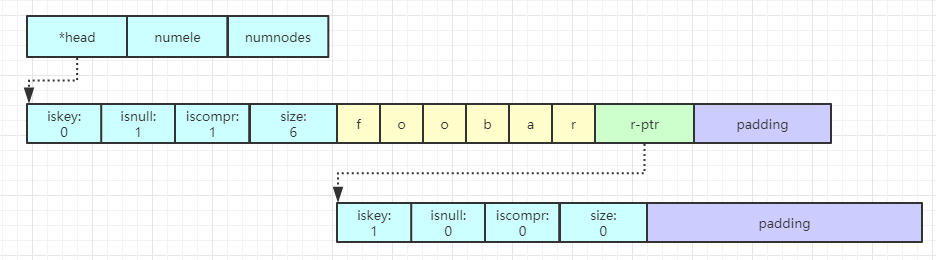
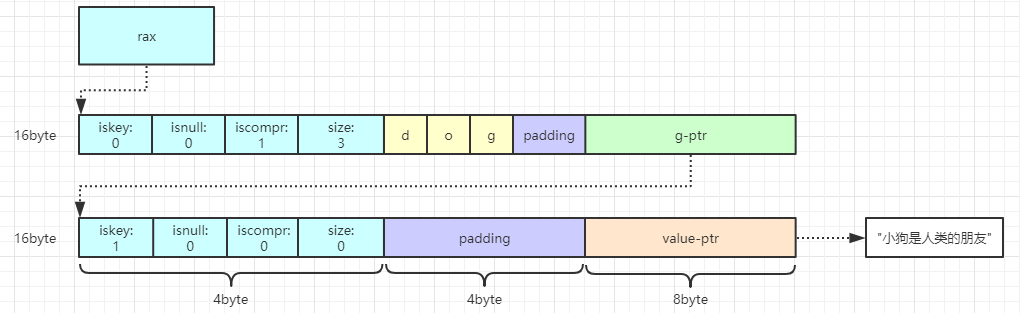
update

diff --git a/first_stage/Redis源码-基数树rax.md b/first_stage/Redis源码-基数树rax.md
@@ -7,7 +7,7 @@
 
 Redis 5.0版本引入的一个新的数据结构。  
 
-<font size=4>Rax核心数据结构：</font>  
+<font size=4>一、Rax数据结构：</font>  
 ![rax_node](../img/rax_node.png)
 字段说明：
 
@@ -19,7 +19,7 @@ Redis 5.0版本引入的一个新的数据结构。
 4. size：占用29个bit。
     * 非压缩：子节点的数量
     * 压缩：该节点字符个数
-5. data：柔性数组。包含路由键，子节点指针，value指针。
+5. data：柔性数组。包含路由键，子节点指针，value指针。为了提高cpu性能，data内存空间对齐(sizeof(void*))，所以会根据计算结果来进行相应的字节填充。
     * 非压缩节点的data伪代码：
 
        ``` C
@@ -29,9 +29,6 @@ Redis 5.0版本引入的一个新的数据结构。
             void* value; // 取决于 header 的 isNull 字段
        }
        ```
-
-        图示如下：
-       ![data_compre](../img/rax_uncompr.png)
 
     * 压缩节点的data伪代码：
 
@@ -45,21 +42,47 @@ Redis 5.0版本引入的一个新的数据结构。
        }
        ```
 
-        图示如下：
+        非压缩与压缩节点图示如下：
        ![data_compre](../img/rax_compr.png)
 
 </br>
 
-<font size=4>Rax创建：</font>  
+<font size=4>二、Rax创建：</font>  
 ![rax_new](../img/rax_new.png)  
 
 </br>
 
-<font size=4>Rax插入：</font>  
+<font size=4>三、Rax插入：</font>  
+ps：以下内容中的padding皆是为了内存对齐填充的空间。  
 
-<font size=3>1.在新创建的节点上插入<dog, "小狗是人类的朋友"></font>  
+<font size=3>1. 在空的基数树中插入数据：<dog, "狗是人类的朋友"></font>  
+解析：  
+首先从头结点开始查找，因为这是一个空的基数树，所以直接将"dog"插入到节点中，设置该节点为压缩节点（iscompr=1）,padding部分是为了内存对齐而填充的，创建该节点的叶子结点，叶子结点中，iskey=1是表示从头结点到该节点的父节点是一个完整的key，iskey=1 && isnull=0表示该叶子结点存储了key的value。  
+结果如下图：  
 ![rax_insert_1](../img/rax_insert_1.png)
 
+<font size=3>2. 接着插入数据：<cat, "猫咪很可爱"></font>  
+解析：  
+接着上面的基数树，从头结点开始查找，当前头结点存储的第一个字符是'd'，与要插入的key的第一个字符'c'不相等，所以需要将该节点拆分成两个节点（拆分的过程可看我下面的源码注释），分别存储[d]和[og]，此时基数树有3个节点。随后将字符'c'插入到首节点中，接着创建'c'子节点，将[at]插入到子节点中，并创建子节点的叶节点插入value的指针，此时基数树存在5个节点，元素个数为2。  
+结果如下图：  
+![rax_insert_2](../img/rax_insert_2.png)
+
+<font size=3>3. 接着插入数据：<doggy, "小狗很可爱"></font>  
+解析：  
+接着上面的基数树，从头结点开始查找key['doggy']，发现头结点只有一个'd'，接着在'd'的子节点node_1中比较['oggy']，找到['og']，'og'的子节点为叶子结点，这时只要直接把['gy']插入到叶子结点中，并创建一个'gy'的叶子结点插入value指针，即可完成插入。此时该基数树的节点数为6，元素个数为3。  
+结果如下图：  
+![rax_insert_3](../img/rax_insert_3.png)
+
+<font size=3>4. 接着插入数据：<carry, "携带"></font>  
+解析：  
+步骤如上一步，当匹配到节点['at']时，需要拆分该节点为['a']节点和['rt']节点， ['a']为['rt']的父节点，['rt']节点为非压缩节点，'r'指针指向新的节点['ry']，并创建['ry']的叶子结点，'t'指针指向原先的叶子结点，基数树右边部分保持不变，完成插入操作。此时该基数树的节点数为9，元素个数为4。  
+结果如下图：  
+![rax_insert_4](../img/rax_insert_4.png)
+
+</br>
+
+<font size=4>四、Rax删除：</font>  
+首先找到iskey节点，然后向上遍历父节点删除非iskey的节点。如果是非压缩的父节点并且size>1，表明该父节点还有其他相关的路径存在，则需要按照删除子节点的模式去处理这个父节点。  
 </br>
 </br>
 
@@ -85,11 +108,11 @@ typedef struct rax {
 
 #define RAX_STACK_STATIC_ITEMS 32
 typedef struct raxStack {
-    void **stack;
+    void **stack; // 存储每一层节点的地址
     size_t items, maxitems;
     void *static_items[RAX_STACK_STATIC_ITEMS];
     int oom;
-} raxStack;
+} raxStack; // 用于迭代，查找，删除的时候记录节点信息的栈结构，FILO
 
 #define RAX_ITER_STATIC_LEN 128
 #define RAX_ITER_JUST_SEEKED (1<<0)
@@ -107,6 +130,15 @@ typedef struct raxIterator {
     raxStack stack;         /* Stack used for unsafe iteration. */
     raxNodeCallback node_cb; /* Optional node callback. Normally set to NULL. */
 } raxIterator;
+
+/* 为了内存对齐填充的字节，为什么需要填充，本质上来说是为了提高cpu性能。填充之后的数据首地址按照
+ * sizeof(void*)字节对齐，保证每个节点都是内存对齐的：
+ * 在64位系统中(sizeof(void*)=8)，节点大小如下：
+ * 1. [header-4][padding-4] = 8byte
+ * 2. [header-4][data-2][padding-2] = 8byte
+ * 3. [header-4][data-11][padding-1] = 16byte
+ */
+#define raxPadding(nodesize) ((sizeof(void*)-((nodesize+4) % sizeof(void*))) & (sizeof(void*)-1))
 ```
 
 </br>
@@ -148,15 +180,6 @@ void raxSetData(raxNode *n, void *data);
 **创建：**
 
 ``` c
-/* 为了内存对齐填充的字节，为什么需要填充，本质上来说是为了提高cpu性能。填充之后的数据首地址按照
- * sizeof(void*)字节对齐，保证每个节点都是内存对齐的：
- * 在64位系统中(sizeof(void*)=8)，节点大小如下：
- * 1. [header-4][padding-4] = 8byte
- * 2. [header-4][data-2][padding-2] = 8byte
- * 3. [header-4][data-11][padding-1] = 16byte
- */
-#define raxPadding(nodesize) ((sizeof(void*)-((nodesize+4) % sizeof(void*))) & (sizeof(void*)-1))
-
 // 创建基数树
 rax *raxNew(void) {
     rax *rax = rax_malloc(sizeof(*rax)); // sizeof(*rax) = 4
@@ -189,27 +212,65 @@ raxNode *raxNewNode(size_t children, int datafield) {
 **插入：**
 
 ``` c
+static inline size_t raxLowWalk(rax *rax, unsigned char *s, size_t len, raxNode **stopnode, raxNode ***plink, int *splitpos, raxStack *ts) {
+    raxNode *h = rax->head; // 从头节点开始往下遍历
+    raxNode **parentlink = &rax->head;
+
+    size_t i = 0; /* Position in the string. */
+    size_t j = 0; /* Position in the node children (or bytes if compressed).*/
+    while(h->size && i < len) {
+        debugnode("Lookup current node",h);
+        unsigned char *v = h->data;
+
+        if (h->iscompr) {
+            /* 如果是压缩节点，表明该节点存储的全部字符应该和s中的部分或者全部字符相等
+             * 例如：
+             * 1. node:[header|'abcd'|d-ptr]  s:['abc']  那么j=3
+             * 2. node:[header|'ab'|b-ptr] s:['abc'] 继续往下遍历节点(b-ptr)找到字符'C'
+             *    然后在子节点中确定'c'的位置j */
+            for (j = 0; j < h->size && i < len; j++, i++) {
+                if (v[j] != s[i]) break;
+            }
+            if (j != h->size) break; // 表示已经找到节点，退出循环
+        } else {
+            /* 如果是非压缩节点，找到s[i]字符的位置j
+             * 例如：
+             * node:[header|'abc'|'a-ptr'|'b-ptr'|'c-ptr']， s[i]:['b']，那么j=1
+             * 然后可以根据j来确定子节点的地址'b-ptr'，便可继续往下遍历 */
+            for (j = 0; j < h->size; j++) {
+                if (v[j] == s[i]) break;
+            }
+            if (j == h->size) break;
+            i++;
+        }
+
+        if (ts) raxStackPush(ts,h); // 将当前节点压入栈中
+        raxNode **children = raxNodeFirstChildPtr(h); // 获取当前节点的第一个子节点指针的地址
+        if (h->iscompr) j = 0; /* 压缩节点不需要设置偏移量j */
+        memcpy(&h,children+j,sizeof(h)); // 根据偏移量j计算得到子节点的指针，并拷贝给h，接着继续while循环往下遍历
+        parentlink = children+j;
+        j = 0;
+    }
+    debugnode("Lookup stop node is",h);
+    if (stopnode) *stopnode = h;
+    if (plink) *plink = parentlink;
+    if (splitpos && h->iscompr) *splitpos = j;
+    return i;
+}
+
 int raxGenericInsert(rax *rax, unsigned char *s, size_t len, void *data, void **old, int overwrite) {
     size_t i;
-    int j = 0; /* Split position. If raxLowWalk() stops in a compressed
-                  node, the index 'j' represents the char we stopped within the
-                  compressed node, that is, the position where to split the
-                  node for insertion. */
+    int j = 0;
     raxNode *h, **parentlink;
 
     debugf("### Insert %.*s with value %p\n", (int)len, s, data);
-    i = raxLowWalk(rax,s,len,&h,&parentlink,&j,NULL);
+    i = raxLowWalk(rax,s,len,&h,&parentlink,&j,NULL); // 确定插入的节点位置，如果是压缩节点，确定分割位置j
 
-    /* If i == len we walked following the whole string. If we are not
-     * in the middle of a compressed node, the string is either already
-     * inserted or this middle node is currently not a key, but can represent
-     * our key. We have just to reallocate the node and make space for the
-     * data pointer. */
-    if (i == len && (!h->iscompr || j == 0 /* not in the middle if j is 0 */)) {
+    // 如果s已经存在于rax中
+    if (i == len && (!h->iscompr || j == 0)) {
         debugf("### Insert: node representing key exists\n");
-        /* Make space for the value pointer if needed. */
         if (!h->iskey || (h->isnull && overwrite)) {
-            h = raxReallocForData(h,data);
+            h = raxReallocForData(h,data); // 为值指针分配空间
             if (h) memcpy(parentlink,&h,sizeof(h));
         }
         if (h == NULL) {
@@ -219,6 +280,7 @@ int raxGenericInsert(rax *rax, unsigned char *s, size_t len, void *data, void **
 
         /* Update the existing key if there is already one. */
         if (h->iskey) {
+            // 如果该key以存在，则根据需要是否重写value
             if (old) *old = raxGetData(h);
             if (overwrite) raxSetData(h,data);
             errno = 0;
@@ -227,137 +289,15 @@ int raxGenericInsert(rax *rax, unsigned char *s, size_t len, void *data, void **
 
         /* Otherwise set the node as a key. Note that raxSetData()
          * will set h->iskey. */
+        // 插入value
         raxSetData(h,data);
         rax->numele++;
         return 1; /* Element inserted. */
     }
 
-    /* If the node we stopped at is a compressed node, we need to
-     * split it before to continue.
-     *
-     * Splitting a compressed node have a few possible cases.
-     * Imagine that the node 'h' we are currently at is a compressed
-     * node contaning the string "ANNIBALE" (it means that it represents
-     * nodes A -> N -> N -> I -> B -> A -> L -> E with the only child
-     * pointer of this node pointing at the 'E' node, because remember that
-     * we have characters at the edges of the graph, not inside the nodes
-     * themselves.
-     *
-     * In order to show a real case imagine our node to also point to
-     * another compressed node, that finally points at the node without
-     * children, representing 'O':
-     *
-     *     "ANNIBALE" -> "SCO" -> []
-     *
-     * When inserting we may face the following cases. Note that all the cases
-     * require the insertion of a non compressed node with exactly two
-     * children, except for the last case which just requires splitting a
-     * compressed node.
-     *
-     * 1) Inserting "ANNIENTARE"
-     *
-     *               |B| -> "ALE" -> "SCO" -> []
-     *     "ANNI" -> |-|
-     *               |E| -> (... continue algo ...) "NTARE" -> []
-     *
-     * 2) Inserting "ANNIBALI"
-     *
-     *                  |E| -> "SCO" -> []
-     *     "ANNIBAL" -> |-|
-     *                  |I| -> (... continue algo ...) []
-     *
-     * 3) Inserting "AGO" (Like case 1, but set iscompr = 0 into original node)
-     *
-     *            |N| -> "NIBALE" -> "SCO" -> []
-     *     |A| -> |-|
-     *            |G| -> (... continue algo ...) |O| -> []
-     *
-     * 4) Inserting "CIAO"
-     *
-     *     |A| -> "NNIBALE" -> "SCO" -> []
-     *     |-|
-     *     |C| -> (... continue algo ...) "IAO" -> []
-     *
-     * 5) Inserting "ANNI"
-     *
-     *     "ANNI" -> "BALE" -> "SCO" -> []
-     *
-     * The final algorithm for insertion covering all the above cases is as
-     * follows.
-     *
-     * ============================= ALGO 1 =============================
-     *
-     * For the above cases 1 to 4, that is, all cases where we stopped in
-     * the middle of a compressed node for a character mismatch, do:
-     *
-     * Let $SPLITPOS be the zero-based index at which, in the
-     * compressed node array of characters, we found the mismatching
-     * character. For example if the node contains "ANNIBALE" and we add
-     * "ANNIENTARE" the $SPLITPOS is 4, that is, the index at which the
-     * mismatching character is found.
-     *
-     * 1. Save the current compressed node $NEXT pointer (the pointer to the
-     *    child element, that is always present in compressed nodes).
-     *
-     * 2. Create "split node" having as child the non common letter
-     *    at the compressed node. The other non common letter (at the key)
-     *    will be added later as we continue the normal insertion algorithm
-     *    at step "6".
-     *
-     * 3a. IF $SPLITPOS == 0:
-     *     Replace the old node with the split node, by copying the auxiliary
-     *     data if any. Fix parent's reference. Free old node eventually
-     *     (we still need its data for the next steps of the algorithm).
-     *
-     * 3b. IF $SPLITPOS != 0:
-     *     Trim the compressed node (reallocating it as well) in order to
-     *     contain $splitpos characters. Change chilid pointer in order to link
-     *     to the split node. If new compressed node len is just 1, set
-     *     iscompr to 0 (layout is the same). Fix parent's reference.
-     *
-     * 4a. IF the postfix len (the length of the remaining string of the
-     *     original compressed node after the split character) is non zero,
-     *     create a "postfix node". If the postfix node has just one character
-     *     set iscompr to 0, otherwise iscompr to 1. Set the postfix node
-     *     child pointer to $NEXT.
-     *
-     * 4b. IF the postfix len is zero, just use $NEXT as postfix pointer.
-     *
-     * 5. Set child[0] of split node to postfix node.
-     *
-     * 6. Set the split node as the current node, set current index at child[1]
-     *    and continue insertion algorithm as usually.
-     *
-     * ============================= ALGO 2 =============================
-     *
-     * For case 5, that is, if we stopped in the middle of a compressed
-     * node but no mismatch was found, do:
-     *
-     * Let $SPLITPOS be the zero-based index at which, in the
-     * compressed node array of characters, we stopped iterating because
-     * there were no more keys character to match. So in the example of
-     * the node "ANNIBALE", addig the string "ANNI", the $SPLITPOS is 4.
-     *
-     * 1. Save the current compressed node $NEXT pointer (the pointer to the
-     *    child element, that is always present in compressed nodes).
-     *
-     * 2. Create a "postfix node" containing all the characters from $SPLITPOS
-     *    to the end. Use $NEXT as the postfix node child pointer.
-     *    If the postfix node length is 1, set iscompr to 0.
-     *    Set the node as a key with the associated value of the new
-     *    inserted key.
-     *
-     * 3. Trim the current node to contain the first $SPLITPOS characters.
-     *    As usually if the new node length is just 1, set iscompr to 0.
-     *    Take the iskey / associated value as it was in the orignal node.
-     *    Fix the parent's reference.
-     *
-     * 4. Set the postfix node as the only child pointer of the trimmed
-     *    node created at step 1.
-     */
-
     /* ------------------------- ALGORITHM 1 --------------------------- */
     if (h->iscompr && i != len) {
+        // 如果遍历后停在压缩节点上
         debugf("ALGO 1: Stopped at compressed node %.*s (%p)\n",
             h->size, h->data, (void*)h);
         debugf("Still to insert: %.*s\n", (int)(len-i), s+i);
@@ -465,6 +405,7 @@ int raxGenericInsert(rax *rax, unsigned char *s, size_t len, void *data, void **
         h = splitnode;
     } else if (h->iscompr && i == len) {
     /* ------------------------- ALGORITHM 2 --------------------------- */
+        // 如果在压缩节点h中找到了所有的字符，则创建一个子节点插入
         debugf("ALGO 2: Stopped at compressed node %.*s (%p) j = %d\n",
             h->size, h->data, (void*)h, j);
 
